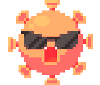
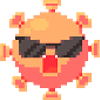
Add Medical Virus

diff --git a/src/js/resources.js b/src/js/resources.js
@@ -1,17 +1,18 @@
-import { ImageSource, Sound, Resource, Loader } from 'excalibur'
+import { ImageSource, Sound, Resource, Loader } from 'excalibur';
 
 // voeg hier jouw eigen resources toe
 const Resources = {
-    BadVirus : new ImageSource('images/virus-bad.png'),
-    GoodVirus : new ImageSource('images/virus-good.png'),
-}
+    BadVirus: new ImageSource('images/virus-bad.png'),
+    GoodVirus: new ImageSource('images/virus-good.png'),
+    MedicalVirus: new ImageSource('images/virus-medical.png')
+};
 
 
 
 
-const ResourceLoader = new Loader()
+const ResourceLoader = new Loader();
 for (let res of Object.values(Resources)) {
-    ResourceLoader.addResource(res)
+    ResourceLoader.addResource(res);
 }
 
-export { Resources, ResourceLoader }
+export { Resources, ResourceLoader };

diff --git a/README.md b/README.md
@@ -10,9 +10,10 @@ Wanneer je klikt wordt het virus verwijderd.
 
 **Versie 2**
 
-Genereer 29 'goede' virussen en 1 'slecht' virus.
-Wanneer een slecht virus een goed virus aanraakt, dan zal het goede virus in een slecht virus veranderen. 
-Porbeer zo snel mogelijk de slechte virussen te verwijderen door deze aan te klikken. 
+Genereer 30 slechte virussen en één medical virus in het scherm.
+de medical virus kan slechte virussen genezen door deze aan te raken. Als een virus goed is, kan deze niet meer 
+aangeklikt worden. 
+Werk samen in dit spel om de virussen te stoppen. Maar wie doet het beter? 
 
 
 ## Clone project
